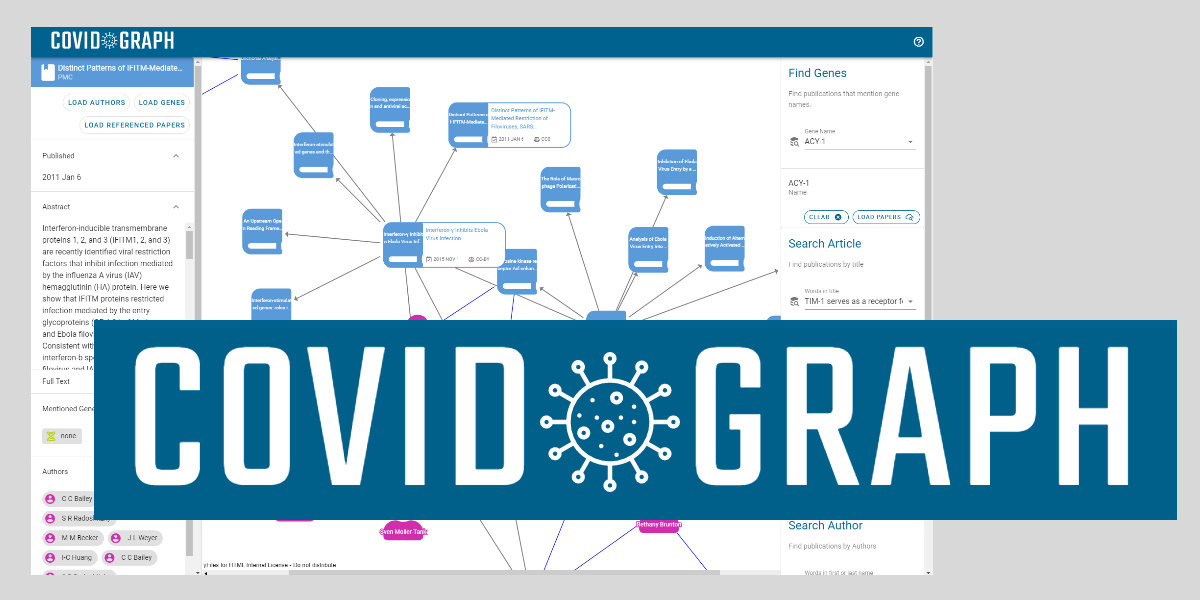
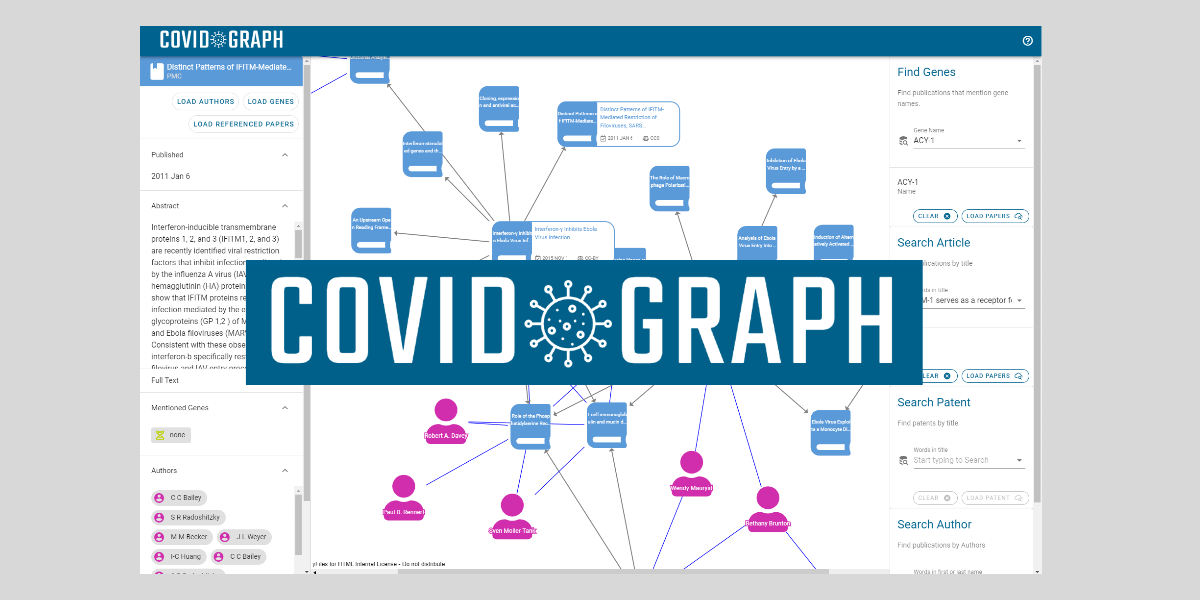
added referencing papers and affiliations

diff --git a/src/components/PaperPanel.vue b/src/components/PaperPanel.vue
@@ -44,6 +44,26 @@
       >
         Load Referenced Papers
       </v-btn>
+      <v-btn
+        text
+        outlined
+        rounded
+        color="primary"
+        @click="loadReferencingPapers"
+        class="action-button"
+      >
+        Load Referencing Papers
+      </v-btn>
+      <v-btn
+        text
+        outlined
+        rounded
+        color="primary"
+        @click="loadAffiliations"
+        class="action-button"
+      >
+        Load Affiliations
+      </v-btn>
     </v-card-actions>
 
     <v-expansion-panels v-model="panel" multiple accordion>
@@ -192,6 +212,12 @@ export default {
   methods: {
     loadReferencedPapers() {
       this.eventBus.$emit("load-referenced-papers-for-paper", this.value);
+    },
+    loadReferencingPapers() {
+      this.eventBus.$emit("load-referencing-papers-for-paper", this.value);
+    },
+    loadAffiliations() {
+      this.eventBus.$emit("load-affiliations-for-paper", this.value);
     },
     loadAuthors() {
       this.eventBus.$emit("load-authors-for-paper", this.value);

diff --git a/src/components/AffiliationPanel.vue b/src/components/AffiliationPanel.vue
@@ -1,0 +1,43 @@
+<template>
+  <v-card>
+    <v-list-item class="header">
+      <v-icon x-large color="white">mdi-office-building</v-icon>
+      <v-list-item-content>
+        <v-list-item-title style="color: white;">
+          {{ value.properties.institution }}
+        </v-list-item-title>
+        <v-list-item-subtitle style="color: #dddddd;">
+          {{ value.properties.laboratory }}
+        </v-list-item-subtitle>
+      </v-list-item-content>
+    </v-list-item>
+
+    <v-card-actions>
+      <v-spacer></v-spacer>
+      <v-btn text outlined rounded color="primary" @click="loadPapers">
+        Load Papers
+      </v-btn>
+    </v-card-actions>
+  </v-card>
+</template>
+
+<script>
+export default {
+  name: "AffiliationPanel",
+  props: {
+    value: null,
+  },
+  methods: {
+    loadPapers() {
+      this.eventBus.$emit("load-papers-for-affiliation", this.value);
+    },
+  },
+};
+</script>
+
+<style lang="scss" scoped>
+@import "../styles/colors";
+.header {
+  background-color: $author-color;
+}
+</style>

diff --git a/src/components/DetailPanel.vue b/src/components/DetailPanel.vue
@@ -5,6 +5,9 @@
   <v-card v-else-if="nodeIs('Author')">
     <AuthorPanel :value="model"></AuthorPanel>
   </v-card>
+  <v-card v-else-if="nodeIs('Affiliation')">
+    <AffiliationPanel :value="model"></AffiliationPanel>
+  </v-card>
   <v-card v-else-if="nodeIs('GeneSymbol')">
     <GenePanel :value="model"></GenePanel>
   </v-card>
@@ -23,6 +26,7 @@ import PaperPanel from "./PaperPanel";
 import AuthorPanel from "./AuthorPanel";
 import GenePanel from "./GenePanel";
 import PatentPanel from "./PatentPanel";
+import AffiliationPanel from "./AffiliationPanel";
 import { isOfType } from "../util/queries";
 
 export default {
@@ -32,6 +36,7 @@ export default {
     AuthorPanel,
     GenePanel,
     PatentPanel,
+    AffiliationPanel,
   },
   data: () => ({
     model: null,
